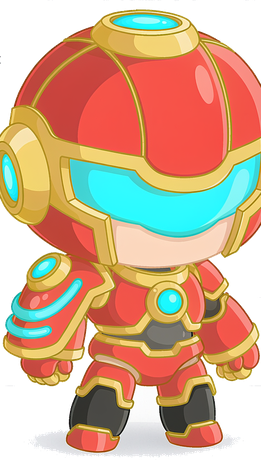
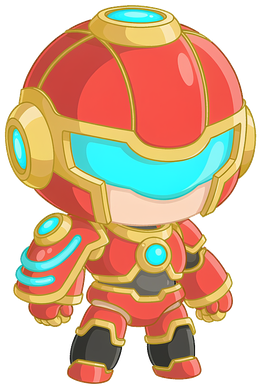
Rework install overlay layout for IE and fix robot image crop (v2.7.1311)

diff --git a/src/update.js b/src/update.js
@@ -454,30 +454,32 @@ function launchInstallOverlay() {
 
   const hta = '<!doctype html><html><head><meta charset="utf-8">'
     + '<HTA:APPLICATION APPLICATIONNAME="WAInstallOverlay" BORDER="none" CAPTION="no" CONTEXTMENU="no" SCROLL="no" SINGLEINSTANCE="yes" SELECTION="no" SHOWINTASKBAR="no" WINDOWSTATE="normal" />'
-    + '<title>蜜蜂信息采集 · 安装中</title><style>'
+    + '<title>蜜蜂信息采集 · 安装中</title>'
+    + '<meta http-equiv="X-UA-Compatible" content="IE=edge"><style>'
     + '*{box-sizing:border-box;margin:0;padding:0;}'
     + 'html,body{height:100%;font-family:"Segoe UI","Microsoft YaHei",sans-serif;background:#fff;color:#1f2329;overflow:hidden;user-select:none;}'
-    + '#app{height:100%;display:flex;}'
-    + '.art{flex:0 0 244px;position:relative;display:flex;align-items:center;justify-content:center;}'
-    + '.halo{position:absolute;left:50%;top:50%;width:340px;height:340px;transform:translate(-50%,-50%);border-radius:50%;background:radial-gradient(circle,rgba(99,189,147,.17) 0%,rgba(167,149,222,.11) 46%,rgba(255,255,255,0) 68%);}'
-    + '.art img{position:relative;z-index:1;width:196px;height:auto;filter:drop-shadow(0 16px 22px rgba(198,74,64,.18));}'
-    + '.pane{flex:1 1 auto;min-width:0;padding:44px 44px 32px 10px;display:flex;flex-direction:column;}'
-    + '.dots{display:flex;gap:7px;}.dots i{width:9px;height:9px;border-radius:50%;display:block;}'
+    + 'table.wrap{table-layout:fixed;border-collapse:collapse;width:800px;height:550px;}'
+    + 'td.art{width:244px;height:550px;vertical-align:middle;text-align:center;background:#fafbfc;}'
+    + 'td.art img{width:196px;height:auto;}'
+    + 'td.pane{width:556px;height:550px;vertical-align:middle;padding:0 44px 0 10px;}'
+    + '.dots i{display:inline-block;width:9px;height:9px;margin-right:7px;border-radius:50%;}'
     + '.dots .g{background:#63bd93;}.dots .p{background:#a795de;}.dots .o{background:#ecb27c;}'
     + 'h1{font-size:25px;font-weight:600;letter-spacing:.6px;margin-top:14px;}'
     + '.sub{font-size:13.5px;color:#8a8f99;margin-top:7px;}'
-    + '.bar-wrap{margin-top:26px;height:10px;border-radius:5px;background:#eef0f3;overflow:hidden;position:relative;}'
-    + '#bar{position:absolute;top:0;left:-42%;width:42%;height:100%;border-radius:5px;background:linear-gradient(90deg,rgba(99,189,147,.35) 0%,#63bd93 100%);}'
-    + '.bar-row{display:flex;justify-content:space-between;align-items:baseline;font-size:12.5px;color:#8a8f99;margin-top:9px;}'
-    + '#pct{font-size:20px;font-weight:600;color:#2f3a44;}'
-    + '#note{margin-top:auto;padding-top:12px;flex:0 0 auto;font-size:12.5px;color:#8a8f99;line-height:1.6;}'
+    + '.bar-wrap{margin-top:26px;height:10px;background:#eef0f3;overflow:hidden;position:relative;}'
+    + '#bar{position:absolute;top:0;left:-42%;width:42%;height:100%;background:#63bd93;}'
+    + '.bar-row{margin-top:9px;font-size:12.5px;color:#8a8f99;}'
+    + '#pct{font-size:20px;font-weight:600;color:#2f3a44;float:right;}'
+    + '#note{margin-top:30px;font-size:12.5px;color:#8a8f99;line-height:1.6;}'
     + '#note b{color:#63bd93;font-weight:600;}</style></head><body>'
-    + '<div id="app"><aside class="art"><div class="halo"></div><img src="' + imgData + '" alt="" /></aside>'
-    + '<main class="pane"><div class="dots"><i class="g"></i><i class="p"></i><i class="o"></i></div>'
+    + '<table class="wrap" cellspacing="0" cellpadding="0"><tr>'
+    + '<td class="art"><img src="' + imgData + '" alt="" /></td>'
+    + '<td class="pane"><div class="dots"><i class="g"></i><i class="p"></i><i class="o"></i></div>'
     + '<h1>正在安装更新</h1><div class="sub">更新版本中，请稍等…</div>'
     + '<div class="bar-wrap"><div id="bar"></div></div>'
     + '<div class="bar-row"><span>正在安装新版本到默认位置</span><span id="pct">请勿关闭软件</span></div>'
-    + '<div id="note">完成后软件会<b>自动重新打开</b>，数据都在 D 盘、登录态保留，<b>无需重新登录</b>。</div></main></div>'
+    + '<div id="note">完成后软件会<b>自动重新打开</b>，数据都在 D 盘、登录态保留，<b>无需重新登录</b>。</div></td>'
+    + '</tr></table>'
     + '<script language="JavaScript">var LOCK="' + lockForJs + '";var bar=document.getElementById("bar");var pos=-42,dir=1;'
     + 'setInterval(function(){pos+=dir*6;if(pos>=100){pos=100;dir=-1;}if(pos<=-42){pos=-42;dir=1;}bar.style.left=pos+"%";},30);'
     + 'function init(){try{window.resizeTo(800,550);window.moveTo((screen.width-800)/2,(screen.height-550)/2);}catch(e){}try{window.focus();}catch(e){}setTimeout(watch,600);setTimeout(function(){try{window.close();}catch(e){}},180000);}'

diff --git a/CHANGELOG.md b/CHANGELOG.md
@@ -7,6 +7,21 @@
 > **规矩：每次改动都要在这里加一条**，写清「优化了什么」和「修好了什么问题」——  
 > 老版本记录一律保留，不许删。
 
+## 2.7.1311（安装覆盖窗重做 + 机器人图修复）
+
+> 老板 2026-10-23 看图点名两件事：① 第二扇「正在安装更新」覆盖窗排版塌了，要换个好看的界面、机器人保留；② 追问「我的机器人是不是被你切掉一部分」。
+
+### 改动（严格限定文件：`src/update.js` + `public/img/bee-robot.png`，未碰采集 / 逻辑 / 其他模块）
+- **`src/update.js`（`launchInstallOverlay()`）**：安装覆盖窗是 `mshta.exe` 跑**老 IE 内核**，原来的 `flex` / `radial-gradient` / `filter` / `transform` 全部失效导致塌版。改写为：
+  - 加 `<meta http-equiv="X-UA-Compatible" content="IE=edge">`；
+  - 布局换成 `table.wrap{table-layout:fixed}` 两列（左 244px 机器人 / 右 556px 文字区），彻底不依赖 flex；
+  - 光晕、进度条、圆点全部改为纯色 + `inline-block`，去掉渐变与滤镜。
+- **`public/img/bee-robot.png`**：旧图 261×460 实为**压窄 + 纵向拉伸**（宽高比 0.567，真实 0.662），右耳罩被削（右边缘 143 个不透明像素贴边）、左边缘 66 个贴边。已从原始素材 `QQ20261017-211436.png` 重新抠图：洪水填充去背景 + 连通域只保留机器人本体（剔除原图左侧灰色文字碎片），带 10px 透明留白，输出 261×389（宽高比 0.671）。四边贴边像素均为 0。
+
+### 验证
+- 新版比例与原始素材一致，两只耳罩完整；按 `width:196px;height:auto` 套进 800×550 覆盖窗渲染确认无缺。
+- 三处使用点（`public/splash.html`、`public/update-cover.html`、`src/update.js` 的 HTA）都只设宽度、高度自适应，未改任何 CSS。
+
 ## 2.7.1301（WA①~⑤ 右栏「客户资料 + 对话信息」可收起）
 
 > 老板 2026-10-23 看图点名（QQ20261023-131332 红框）：把 WA 系列页签右侧整块栏目（客户资料卡 + 对话信息）做成可收缩到右侧的，其余不动。先看改前 / 改后对照图确认后动工。
